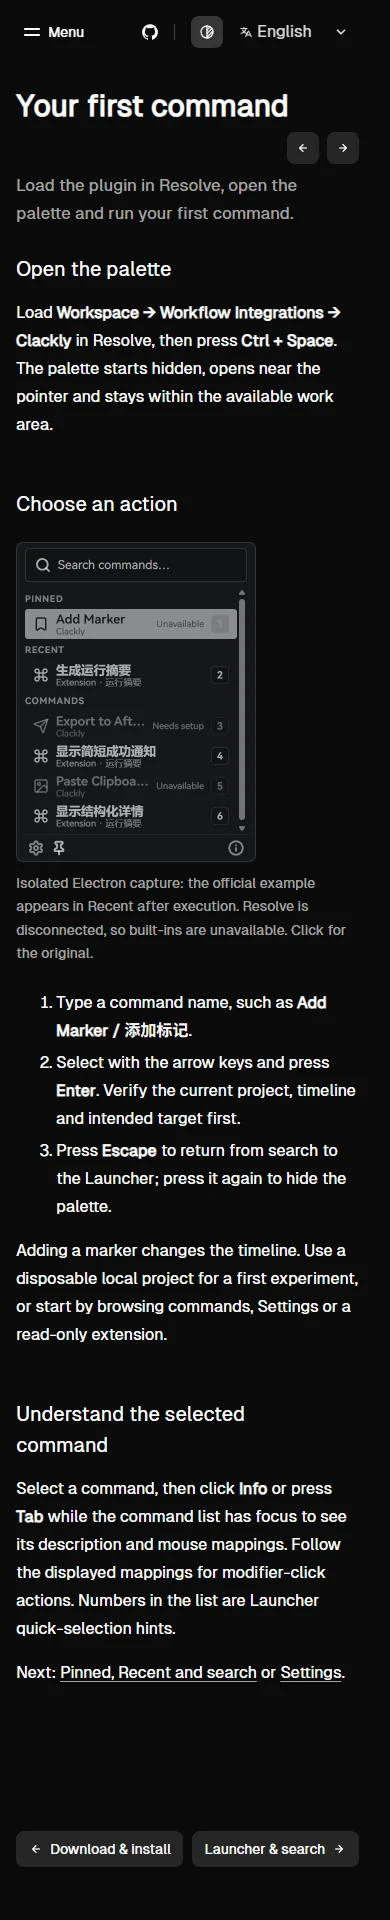
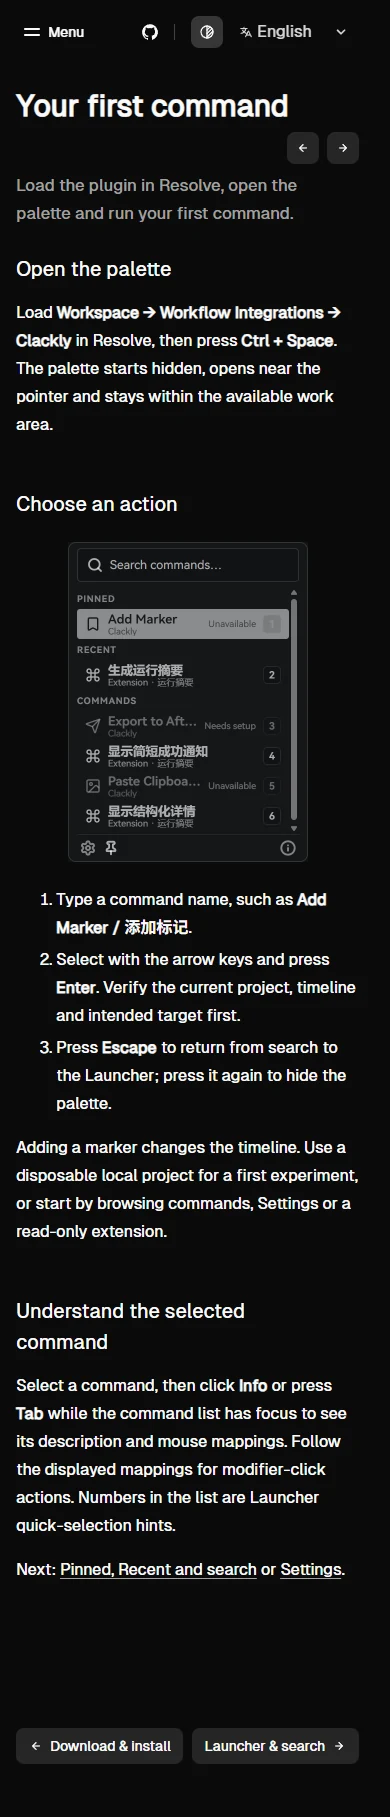
fix(docs): center application screenshots and remove capture captions
Refs #16

Assisted-by: Cindy (https://cindy.app)

diff --git a/site/tests/docs-screenshots.spec.ts b/site/tests/docs-screenshots.spec.ts
@@ -16,7 +16,13 @@ for (const locale of ['', 'en/']) {
         await expect(image).toBeVisible();
         expect((await image.getAttribute('alt'))!.length).toBeGreaterThan(15);
         expect(await image.evaluate((image: HTMLImageElement) => image.complete && image.naturalWidth > 400)).toBeTruthy();
-        await expect(shot.locator('figcaption')).toContainText('Electron');
+        await expect(shot.locator('figcaption')).toHaveCount(0);
+        const centered = await image.evaluate(image => {
+          const bounds = image.getBoundingClientRect();
+          const figure = image.closest('figure')!.getBoundingClientRect();
+          return Math.abs((bounds.left + bounds.right - figure.left - figure.right) / 2) < 1;
+        });
+        expect(centered, route + ' image should be centered in the article').toBeTruthy();
         expect(await page.evaluate(() => document.documentElement.scrollWidth <= innerWidth)).toBeTruthy();
         const link = shot.getByRole('link');
         await expect(link).toHaveAttribute('href', (await image.getAttribute('src'))!);

diff --git a/site/src/styles/docs.css b/site/src/styles/docs.css
@@ -9,11 +9,10 @@
 html { scrollbar-color: var(--muted-foreground) var(--background); }
 
 .sl-markdown-content .docs-shot { margin: 1.5rem 0; }
-.docs-shot > a { display: block; width: fit-content; max-width: 100%; }
+.docs-shot > a { display: block; width: fit-content; max-width: 100%; margin-inline: auto; }
 .docs-shot img { display: block; max-width: 100%; height: auto; }
 .docs-shot-palette > a { max-width: min(100%, 240px); }
 .docs-shot-command > a { max-width: min(100%, 480px); }
-.docs-shot figcaption { margin-top: .65rem; color: var(--muted-foreground); font-size: .875rem; line-height: 1.65; }
 
 /* Reuse Ameow’s mobile pagination fix for long translated labels. */
 @media (max-width: 40rem) {

diff --git a/site/evidence/issue-16/README.md b/site/evidence/issue-16/README.md
@@ -61,7 +61,7 @@
 | `command-ui-zh/en.webp`（960×1160） | 官方摘要命令实际打开的静态表单；更多字段在窗口内滚动 |
 | `developer-skill-zh/en.webp`（1064×254 / 1064×322） | Settings 中复制提示词与打开 Skill 文件夹的相关区域 |
 
-合计约 310 KiB；原图有描述性 alt、caption、真实尺寸，并可通过键盘打开。页面缩放只用于排版，没有重绘或美化应用 UI。
+合计约 310 KiB；原图有描述性 alt、真实尺寸，并可通过键盘打开。按用户反馈，截图在正文中居中，不显示采集说明和“点击查看原图”等图片下方标注；来源和验证边界集中保留在本记录、manifest 与 Issue。页面缩放只用于排版，没有重绘或美化应用 UI。
 
 边界：未连接 Resolve，内置命令如实显示不可用或需要设置；extension readiness 与 update-state adapter 用于隔离测试，不能证明真实宿主就绪或更新检查。未运行 AE 导出。示例并非应用预装扩展，其作者定义的中文字段在英文应用 UI 下仍保留中文。截图不含 OS frame/shadow。
 
@@ -79,14 +79,16 @@
 - [Extensions：英文手机浅色](extensions-en-mobile-light.webp)
 - [Developer Skill：中文手机浅色](developer-skill-zh-mobile-light.webp)
 - [Command UI：英文桌面浅色](command-ui-en-desktop-light.webp)
+- [Launcher 搜索：中文桌面浅色，图片居中且无下方标注](launcher-zh-desktop-light.webp)
 
 ## 验证
 
 - 应用构建通过，仅用于真实 UI 采集；采集脚本确认只执行一次非 Resolve Python 示例、无 pageerror。
 - 站点构建通过：41 份 HTML、19 对双语页面、3,032 项内链/资源/锚点，19 份官方原文逐字节一致。
 - 完整站点 Playwright：26/26；最终摘要与按钮文案调整后，受影响文档测试再次 14/14。包含六类插图页的中英 1440/390/320px、原图键盘打开、资源加载与无溢出，以及 Agent 复制、剪贴板失败回退、搜索、双语/主题/导航。
+- 图片居中与移除标注后，文档 14/14 再次通过；六类双语插图页均验证 1440/390/320px 下图片居中、无下方标注且原图仍可键盘打开。七张网页验收截图已更新。
 - 实际打开本地生产预览，并检查上述六张浏览器截图。没有录屏。
-- Impeccable detector 仅有 caption `.875rem` 与产品页 DESIGN 字号表不同的 advisory；文档沿用 Starlight 小字说明尺寸与主题 token，保留该有意差异。
+- 按反馈删除图片下方标注及对应样式后，Impeccable detector 无发现。
 - `git diff --check`、截图 manifest 的大小/哈希核对与改动范围核对通过。PR 的最终 HEAD/CI 以 Issue 回写收据为准。
 
 本机 Node 22.17.1 低于声明的 22.19.0，以上本地检查实际通过；CI 使用声明支持的版本。应用依赖安装报告的既有 audit 项不在本次文档改动范围，没有为此更新应用依赖。

diff --git a/site/src/content/docs/en/docs/command-ui-views.md b/site/src/content/docs/en/docs/command-ui-views.md
@@ -13,7 +13,6 @@ Forms using **Dynamic Prepare** read choices from the current project when opene
 
 <figure class="docs-shot docs-shot-command">
   <a href="/Clackly/images/docs/command-ui-en.webp"><img src="/Clackly/images/docs/command-ui-en.webp" alt="Official summary Command UI with title, notes, number inputs, Cancel and Run command buttons" width="960" height="1160" loading="lazy" /></a>
-  <figcaption>Isolated Electron capture of the official example’s static form. It neither reads nor changes Resolve projects. Author-defined fields remain Chinese; scroll for more fields and confirmation. Click for the original.</figcaption>
 </figure>
 
 ## Continued browsing: Extension Views

diff --git a/site/src/content/docs/en/docs/extensions.md b/site/src/content/docs/en/docs/extensions.md
@@ -17,7 +17,6 @@ If the interface reports a missing Host or dependency, resolve it before running
 
 <figure class="docs-shot">
   <a href="/Clackly/images/docs/extensions-en.webp"><img src="/Clackly/images/docs/extensions-en.webp" alt="Summary extension details with version, declared source, Disable and Uninstall buttons, prefix configuration and commands" width="1520" height="1120" loading="lazy" /></a>
-  <figcaption>Isolated Electron capture of the installed official summary example with temporary settings. It is not preinstalled; its author-defined labels remain Chinese. Resolve is disconnected. Click for the original.</figcaption>
 </figure>
 
 ## Update and replace

diff --git a/site/src/content/docs/en/docs/first-use.md b/site/src/content/docs/en/docs/first-use.md
@@ -11,7 +11,6 @@ Load **Workspace → Workflow Integrations → Clackly** in Resolve, then press 
 
 <figure class="docs-shot docs-shot-palette">
   <a href="/Clackly/images/docs/launcher-en.webp"><img src="/Clackly/images/docs/launcher-en.webp" alt="Clackly Launcher with pinned Add Marker, a recently executed summary and the Commands group" width="480" height="640" loading="lazy" /></a>
-  <figcaption>Isolated Electron capture: the official example appears in Recent after execution. Resolve is disconnected, so built-ins are unavailable. Click for the original.</figcaption>
 </figure>
 
 1. Type a command name, such as **Add Marker / 添加标记**.

diff --git a/site/src/content/docs/docs/command-ui-views.md b/site/src/content/docs/docs/command-ui-views.md
@@ -13,7 +13,6 @@ description: "了解单次输入表单和持续浏览窗口的操作方式。"
 
 <figure class="docs-shot docs-shot-command">
   <a href="/Clackly/images/docs/command-ui-zh.webp"><img src="/Clackly/images/docs/command-ui-zh.webp" alt="生成运行摘要的 Command UI：标题、备注、数字输入以及取消和运行命令按钮" width="960" height="1160" loading="lazy" /></a>
-  <figcaption>隔离 Electron 实拍：官方运行摘要示例的静态表单，不读取或修改 Resolve 项目；下滚可见其余字段和确认项。点击查看原图。</figcaption>
 </figure>
 
 ## 持续浏览：Extension Views

diff --git a/site/src/content/docs/docs/first-use.md b/site/src/content/docs/docs/first-use.md
@@ -11,7 +11,6 @@ description: "在 Resolve 加载插件，呼出面板并运行第一个命令。
 
 <figure class="docs-shot docs-shot-palette">
   <a href="/Clackly/images/docs/launcher-zh.webp"><img src="/Clackly/images/docs/launcher-zh.webp" alt="Clackly Launcher：已固定的添加标记、最近执行的运行摘要和命令分组" width="480" height="640" loading="lazy" /></a>
-  <figcaption>隔离 Electron 实拍：官方示例运行后进入 Recent；未连接 Resolve，内置命令显示不可用。点击查看原图。</figcaption>
 </figure>
 
 1. 输入命令名称，例如 **Add Marker / 添加标记**。

diff --git a/site/src/content/docs/en/docs/settings.md b/site/src/content/docs/en/docs/settings.md
@@ -19,7 +19,6 @@ In **General Settings**, check the version, switch between **English / 简体中
 
 <figure class="docs-shot">
   <a href="/Clackly/images/docs/settings-en.webp"><img src="/Clackly/images/docs/settings-en.webp" alt="After Effects feature configuration, with Needs Setup status, an empty path, Save changes and Discard changes controls" width="1520" height="1120" loading="lazy" /></a>
-  <figcaption>Isolated Electron capture: the AE path is unset, so the feature shows Needs Setup. Resolve is disconnected; no export ran. Click for the original.</figcaption>
 </figure>
 
 ## Extensions and developer tools

diff --git a/site/src/content/docs/en/docs/developer/skill.md b/site/src/content/docs/en/docs/developer/skill.md
@@ -16,7 +16,6 @@ Application upgrades update the bundled source; reimport the Agent copy using th
 
 <figure class="docs-shot">
   <a href="/Clackly/images/docs/developer-skill-en.webp"><img src="/Clackly/images/docs/developer-skill-en.webp" alt="Developer Skill section in Settings with Copy Agent installation prompt and Open Skill folder" width="1064" height="322" loading="lazy" /></a>
-  <figcaption>The actual Skill controls in Settings → Extensions, captured in isolated Electron and cropped to the relevant section. Click for the original.</figcaption>
 </figure>
 
 ## Cloud or sandboxed Agents

diff --git a/site/src/content/docs/docs/launcher.md b/site/src/content/docs/docs/launcher.md
@@ -17,7 +17,6 @@ description: "固定常用命令、找回最近使用的操作，或按名称搜
 
 <figure class="docs-shot docs-shot-palette">
   <a href="/Clackly/images/docs/search-zh.webp"><img src="/Clackly/images/docs/search-zh.webp" alt="搜索“摘要”找到生成运行摘要，来源显示 Extension · 运行摘要" width="480" height="640" loading="lazy" /></a>
-  <figcaption>隔离 Electron 实拍：搜索已安装的官方运行摘要示例，来源显示在命令名下方；未连接 Resolve。点击查看原图。</figcaption>
 </figure>
 
 ## 普通 Resolve Scripts
